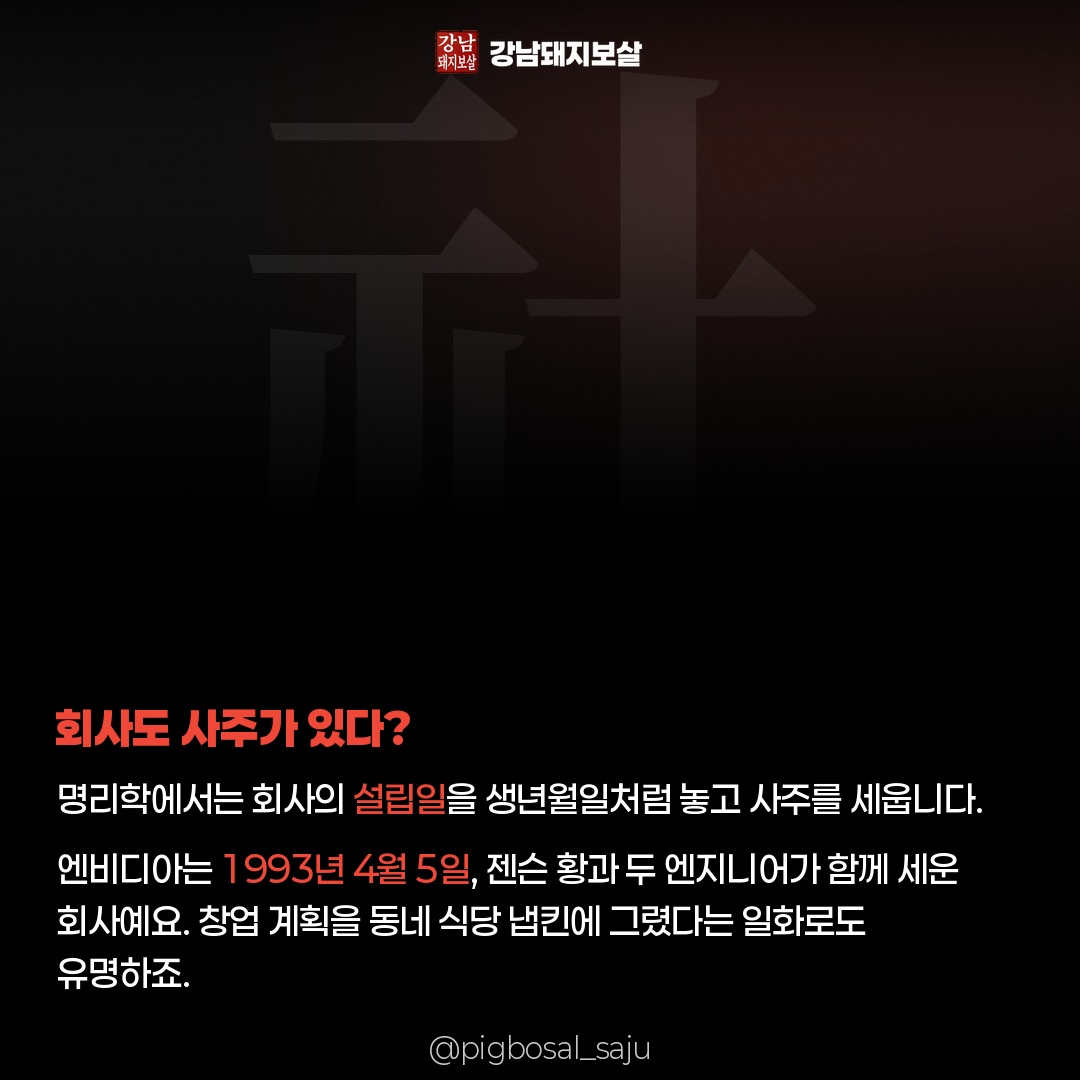
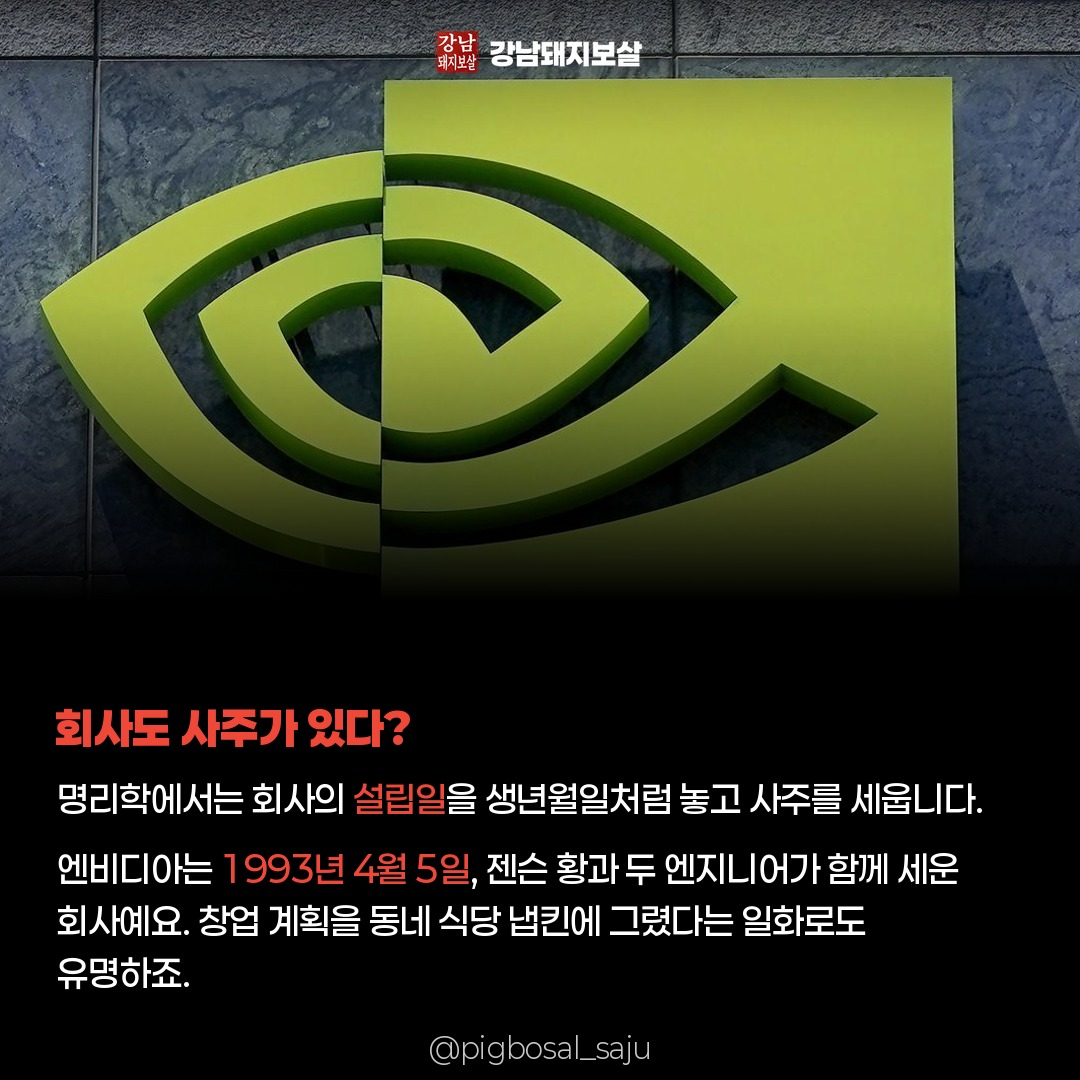
엔비디아 편 사진 적용, 가로 사진 상단 배치(fit: top) 옵션
Claude-Session: https://claude.ai/code/session_01R39AKJLY1tLsuohGnm6TD8

diff --git a/cardgen/render_cards.py b/cardgen/render_cards.py
@@ -89,7 +89,20 @@ def draw_rich(d, x, y, line, font, size, base=WHITE, hi=RED, tracking=0, anchor=
 
 
 # ---------- backgrounds ----------
-def hanja_bg(chars, seed=0, glow=RED, photo=None, crop=None):
+def hanja_bg(chars, seed=0, glow=RED, photo=None, crop=None, fit=None):
+    if photo and os.path.exists(photo) and fit == 'top':
+        # 가로 사진을 자르지 않고 위쪽에 통째로 배치, 아래는 검정으로 페이드
+        ph = Image.open(photo).convert('RGB')
+        if crop:
+            ph = ph.crop(tuple(crop))
+        ph = ph.resize((W, round(ph.height * W / ph.width)), Image.LANCZOS)
+        bg = Image.new('RGBA', (W, H), (0, 0, 0, 255))
+        fade = Image.new('L', (1, ph.height))
+        for y in range(ph.height):
+            fade.putpixel((0, y), 255 if y < ph.height * 0.7 else int(255 * (1 - (y - ph.height * 0.7) / (ph.height * 0.3))))
+        ph = ph.convert('RGBA'); ph.putalpha(fade.resize((W, ph.height)))
+        bg.alpha_composite(ph, (0, 0))
+        return bg
     if photo and os.path.exists(photo):
         im = Image.open(photo).convert('RGB')
         if crop:
@@ -164,7 +177,7 @@ def handle(d, text='@pigbosal_saju'):
 
 # ---------- slide types ----------
 def slide_cover(s, c):
-    im = hanja_bg(s.get('bg_hanja', ''), 1, photo=s.get('photo'), crop=s.get('crop'))
+    im = hanja_bg(s.get('bg_hanja', ''), 1, photo=s.get('photo'), crop=s.get('crop'), fit=s.get('fit'))
     g0, g1 = s.get('grad', [330, 680])
     bottom_gradient(im, g0, g1, base_dark=s.get('dark', 40))
     d = ImageDraw.Draw(im)
@@ -184,7 +197,7 @@ def slide_cover(s, c):
 
 
 def slide_body(s, c, idx):
-    im = hanja_bg(s.get('bg_hanja', ''), idx, photo=s.get('photo'), crop=s.get('crop'))
+    im = hanja_bg(s.get('bg_hanja', ''), idx, photo=s.get('photo'), crop=s.get('crop'), fit=s.get('fit'))
     g0, g1 = s.get('grad', [200, 520])
     bottom_gradient(im, g0, g1, base_dark=s.get('dark', 60))
     d = ImageDraw.Draw(im)
@@ -325,7 +338,7 @@ def slide_daeun(s, c, idx):
 
 
 def slide_closing(s, c, idx):
-    im = hanja_bg(s.get('bg_hanja', ''), idx, photo=s.get('photo'), crop=s.get('crop'))
+    im = hanja_bg(s.get('bg_hanja', ''), idx, photo=s.get('photo'), crop=s.get('crop'), fit=s.get('fit'))
     im.alpha_composite(Image.new('RGBA', (W, H), (0, 0, 0, 185)))
     d = ImageDraw.Draw(im)
     d.text((W / 2, 400), s['question'], font=F('5Medium', 46), fill=WHITE, anchor='ms')
